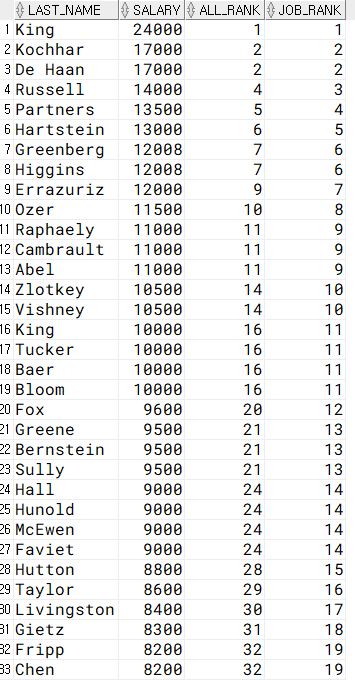
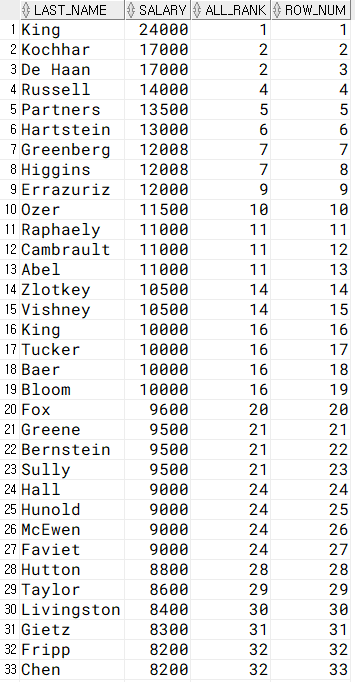
GitBook: [master] 6 pages and 13 assets modified

Changed region(s): [[0.0, 0.0, 0.3408, 1.0], [0.6817, 0.0, 0.9915, 1.0], [0.3408, 0.0, 0.6817, 1.0]]

diff --git a/aggregate.md b/aggregate.md
@@ -2,12 +2,36 @@
 
 ## 집계함수 종류
 
-| 집계함 | 설 |
+| 집계함수  | 설명  |
 | :--- | :--- |
-| COUNT\( \) | 행 수를 조회한다 |
-| SUM\( \) | 합계를 계산한다 |
-| AVG\( \) | 평균을 계산한다 |
-| MAX\( \) / MIN\( \) | 최대값과 최소값을 계산한다 |
-| STDDEV\( \) | 표준편차를 계산한다 |
-| VARIAN\( \) | 분산을 계산한다 |
+| `COUNT( )` | 행 수를 조회한다 |
+| `SUM( )` | 합계를 계산한다 |
+| `AVG( )` | 평균을 계산한다 |
+| `MAX( )`   `MIN( )` | 최대값과 최소값을 계산한다 |
+| `STDDEV( )` | 표준편차를 계산한다 |
+| `VARIAN( )` | 분산을 계산한다 |
+
+```sql
+SELECT last_name, salary, 
+       SUM(salary) OVER (PARTITION BY manager_id) SUM_MANAGER
+FROM employees; 
+```
+
+![SUM\_MANAGER&#xB294; &#xD589; &#xBCC4;&#xB85C; &#xAC19;&#xC740; &#xAD00;&#xB9AC;&#xC790;&#xC758; &#xAE09;&#xC5EC; &#xD569;&#xACC4;&#xB97C; &#xBCF4;&#xC5EC;&#xC900;&#xB2E4;](.gitbook/assets/image%20%282%29.png)
+
+## COUNT 함수
+
+* COUNT\( \)는 행 수를 계산하는 함수다. 
+* COUNT\(\*\)는 NULL 값을 포함한 모든 행의 수를 계산한다. 
+* COUNT\(컬럼\)은 NULL 값을 제외한 행 수를 계산한다. 
+
+{% tabs %}
+{% tab title="COUNT\(\*\)" %}
+```sql
+SELECT COUNT(*)
+FROM emp
+WHERE employee_id >= 10 ;
+```
+{% endtab %}
+{% endtabs %}
 

diff --git a/connect-by.md b/connect-by.md
@@ -49,7 +49,7 @@ SELECT last_name, salary, job_id, RANK() OVER (ORDER BY salary DESC) ALL_RANK,
 FROM employees ;
 ```
 
-![... &#xC774;&#xD558; &#xC0DD;&#xB7B5;](.gitbook/assets/image%20%286%29.png)
+![... &#xC774;&#xD558; &#xC0DD;&#xB7B5;](.gitbook/assets/image%20%287%29.png)
 
 ## DENSE\_RANK\( \) 
 
@@ -61,7 +61,7 @@ SELECT last_name, salary, RANK() OVER (ORDER BY salary DESC) RANK,
 FROM employees ;
 ```
 
-![DENSE\_RANK&#xC5D0;&#xB294; 3&#xC704;&#xAC00; &#xC788;&#xB2E4;. &#xC989; &#xBAA8;&#xB4E0; &#xC21C;&#xC704;&#xAC00; &#xC788;&#xB2E4;.](.gitbook/assets/image%20%2813%29.png)
+![DENSE\_RANK&#xC5D0;&#xB294; 3&#xC704;&#xAC00; &#xC788;&#xB2E4;. &#xC989; &#xBAA8;&#xB4E0; &#xC21C;&#xC704;&#xAC00; &#xC788;&#xB2E4;.](.gitbook/assets/image%20%2814%29.png)
 
 ## ROW\_NUMBER\( \) 
 
@@ -74,5 +74,5 @@ SELECT last_name, salary,
 FROM employees ;   
 ```
 
-![&#xB3D9;&#xC77C;&#xD55C; &#xC21C;&#xC704;&#xC5D0; &#xB300;&#xD574;&#xC11C; &#xAC01;&#xAC01; &#xACE0;&#xC720;&#xC758; &#xB85C;&#xC6B0; &#xB118;&#xBC84;&#xB97C; &#xBD80;&#xC5EC;&#xD574;&#xC900;&#xB2E4;](.gitbook/assets/image%20%2810%29.png)
+![&#xB3D9;&#xC77C;&#xD55C; &#xC21C;&#xC704;&#xC5D0; &#xB300;&#xD574;&#xC11C; &#xAC01;&#xAC01; &#xACE0;&#xC720;&#xC758; &#xB85C;&#xC6B0; &#xB118;&#xBC84;&#xB97C; &#xBD80;&#xC5EC;&#xD574;&#xC900;&#xB2E4;](.gitbook/assets/image%20%2811%29.png)
 

diff --git a/grouping-grouping-sets.md b/grouping-grouping-sets.md
@@ -40,7 +40,7 @@ GROUP BY GROUPING SETS ((department_id, job_id), (job_id, manager_id), (manager_
 {% endtab %}
 {% endtabs %}
 
-![](.gitbook/assets/image%20%282%29.png)
+![](.gitbook/assets/image%20%283%29.png)
 
-![...&#xC774;&#xD558; &#xC0DD;&#xB7B5;](.gitbook/assets/image%20%287%29.png)
+![...&#xC774;&#xD558; &#xC0DD;&#xB7B5;](.gitbook/assets/image%20%288%29.png)
 

diff --git a/grouping-cube.md b/grouping-cube.md
@@ -31,5 +31,5 @@ GROUP BY CUBE (department_id, job_id);
 * 1행 : 전체 합계 
 * 2행 : 
 
-![...&#xC774;&#xD558; &#xC0DD;&#xB7B5;](.gitbook/assets/image%20%289%29.png)
+![...&#xC774;&#xD558; &#xC0DD;&#xB7B5;](.gitbook/assets/image%20%2810%29.png)
 

diff --git a/join.md b/join.md
@@ -4,5 +4,5 @@
 
 JOIN은 여러 개의 릴레이션\(테이블\)을 사용해서 새로운 릴레이션을 만든다. 
 
-![](.gitbook/assets/image%20%288%29.png)
+![](.gitbook/assets/image%20%289%29.png)
 

diff --git a/grouping.md b/grouping.md
@@ -14,5 +14,5 @@ FROM employees
 GROUP BY ROLLUP (department_id, job_id) ; 
 ```
 
-![](.gitbook/assets/image%20%284%29.png)
+![](.gitbook/assets/image%20%285%29.png)
 
